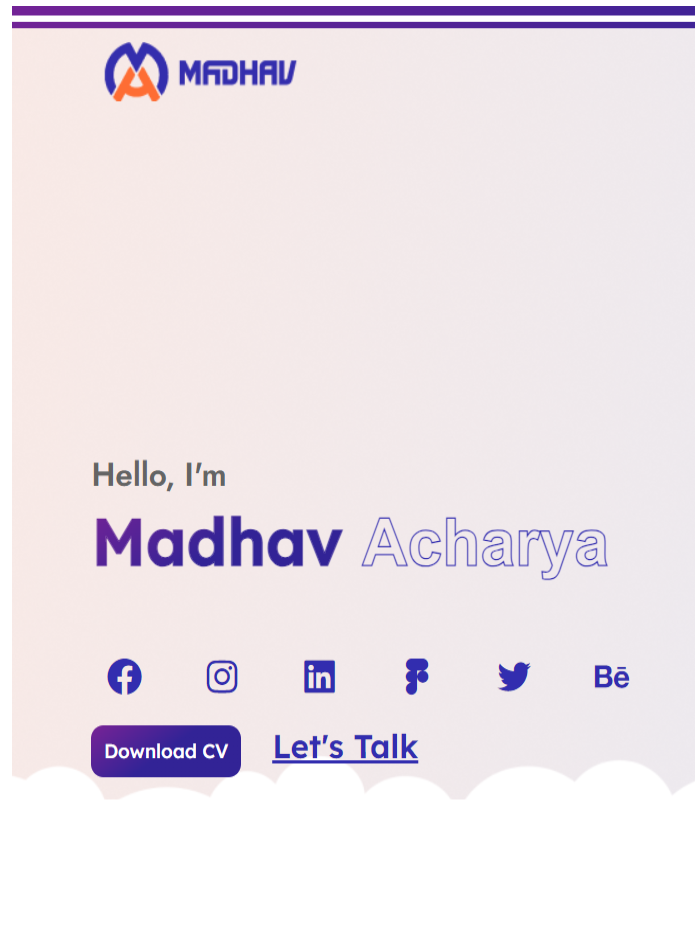
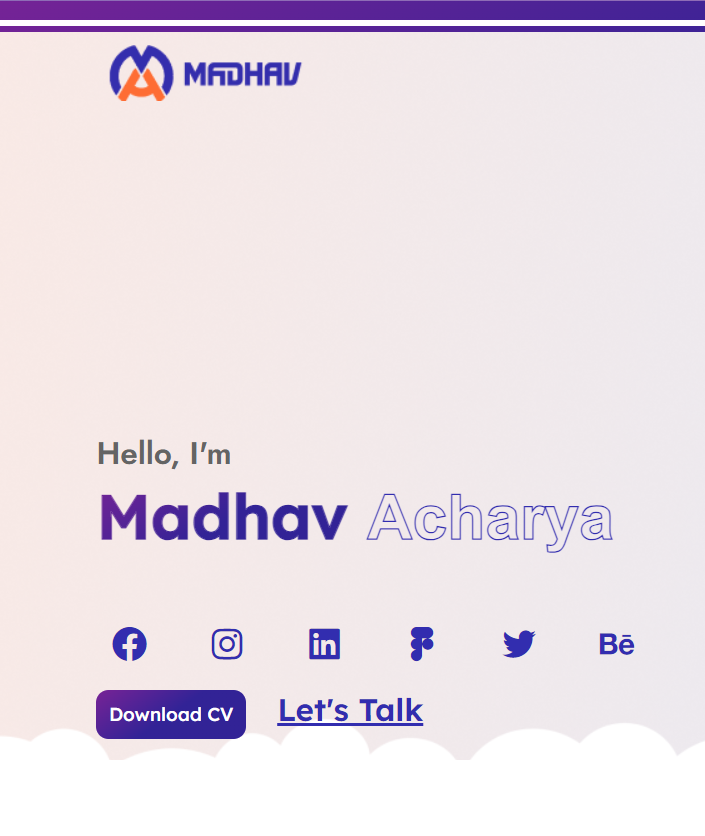
still not completed

diff --git a/index.html b/index.html
@@ -51,69 +51,59 @@ Poudel</span></h1>
 </ul>
 </div>
 <div class="heroBtn">
-  <button class="downloadCV"><a href="./portfolio.pdf" class="specialFont">Download CV</a></button>
   <a href="#contact" class="specialFont">Let's Talk</a>
 </div>
-    </div>
-    <div class="heroImg">
-    <div class="heroImgContainer">
-      <img src="images/profile.png" alt="">
-      <div class="rotate-text">
-          <div class="text">
-              <p>lllllllllllllllllllllllllllllllllllllllllllllllllllllllll</p>
-          </div>
-          <span><i></i></span>
-      </div>
-  </div>
-  </div>
-  </section>
-  
-  <section class="about" id="about">
-  <fieldset class="about-Box1" data-aos="fade-right" >
+</div>
+<div class="heroImg">
+</div>
+</section>
+
+<section class="about" id="about">
+  <fieldset class="about-Box1" data-aos="fade-up" >
     <legend class="primaryColor specialFont">Prasan Poudel</legend>
     <ul>
       <li>
         <i class='bx bxs-briefcase'></i>
-        React JS developer, Web developer
+        : React JS developer, Web developer
       </li>
       <li>
         <i class='bx bxl-gmail'></i>
-        prasanpoudel501 @gmail.com
+        : prasanpoudel501 @gmail.com
       </li>
       <li>
         <i class='bx bxs-location-plus'></i>
-        Buddhabhumi-9,Kapilvastu <img src="./images/NepalFlag.png" alt="" class="NepalFlag">
+        : Buddhabhumi-9,Kapilvastu <img src="./images/NepalFlag.png" alt="" class="NepalFlag">
       </li>
       <li>
         <i class='bx bxs-phone'></i>
-        +977-9841098***
+        : +977-9841098***
       </li>
       <li>
         <i class='bx bxs-graduation'></i>
-        B.Sc. CSIT, Butwal Multiple Campus
+        :B.Sc. CSIT, Butwal Multiple Campus
       </li>
     </ul>
   </fieldset>
-<div class="about-Box2" data-aos="fade-left" >
-  <p class="headingText">
-    Why you should <span class="transparentText specialFont">hire me</span> for your <span class="primaryColor specialFont">next </span><span class="primaryColor specialFont">project </span>?
-  </p>
-<p class="explanation">
-  I'm a highly skilled web developer and also a computer science student with a passion for creating amazing and engaging web applications. I am currently studying bachelor in computer science and information technology from Tribhuvan University of Nepal. I am highly skilled in working with technologies like HTML, CSS, Tailwind, SASS, JavaScript along with React Js and also tools like git & github.
-</p>
-<p class="explanation"> I am always looking for new challenges and opportunities to expand my skill set. I am passionate about creating innovative and effective web solutions that make a fulfillment in my client's demand.
-</p>
-<button class="hireBtn "><a href="mailto:prasanpoudel501@gmail.com" class="specialFont">Hire Me</a></button>
-</div>
-  </section>
-  <section class="mySkills">
-    <div class="mySkillsTitle">
-      <p class="specialFont">My skills:</p>
-    </div>
-    <div class="skills" data-aos="fade-down" >
-      <ul>
-        <li><i class='bx bxl-html5'></i>HTML</li>
-        <li><i class='bx bxl-css3'></i>CSS</li>
+  <div class="about-Box2" data-aos="fade-up" >
+    <p class="headingText">
+      Why you should <span class="transparentText specialFont">hire me</span> for your <span class="primaryColor specialFont">next </span><span class="primaryColor specialFont">project </span>?
+    </p>
+    <p class="explanation">
+      I'm a highly skilled web developer and also a computer science student with a passion for creating amazing and engaging web applications. I am currently studying bachelor in computer science and information technology from Tribhuvan University of Nepal. I am highly skilled in working with technologies like HTML, CSS, Tailwind, SASS, JavaScript along with React Js and also tools like git & github.
+    </p>
+    <p class="explanation"> I am always looking for new challenges and opportunities to expand my skill set. I am passionate about creating innovative and effective web solutions that make a fulfillment in my client's demand.
+    </p>
+    <button class="downloadCV"><a href="./portfolio.pdf" class="specialFont">Download CV</a></button>
+  </div>
+</section>
+<section class="mySkills">
+  <div class="mySkillsTitle">
+    <p class="specialFont">My skills:</p>
+  </div>
+  <div class="skills" data-aos="fade-down" >
+    <ul>
+      <li><i class='bx bxl-html5'></i>HTML</li>
+      <li><i class='bx bxl-css3'></i>CSS</li>
         <li><i class='bx bxl-sass' ></i>SASS</li>
         <li><i class='bx bxl-tailwind-css' ></i>Tailwind</li>
         <li><i class='bx bxl-javascript' ></i>JavaScript</li>
@@ -127,7 +117,7 @@ Poudel</span></h1>
   Projects:
 </div>
 <div class="allProjects">
-<div class="projects-Box1" data-aos="fade-right">
+<div class="projects-Box1" data-aos="fade-up">
   <div class="allProjectsHeading">
   <p class="headingText">My <span class="primaryColor specialfont">latest</span></p><p class="headingText">awesome <span class="transparentText specialFont">projects</span></p>
   </div>
@@ -140,13 +130,13 @@ Poudel</span></h1>
     </div>
   </div>
 </div>
-<div class="projects-Box2" data-aos="fade-left">
+<div class="projects-Box2" data-aos="fade-up">
   <div class="project">
     <img src="./allProjectsImage/todoListAppImg.png" alt="">
     <div class="overlay">
       <p>Functional Todo List App</p>
-      <p><a href="https://prasanpoudel.github.io/allProjects/TodoApp/">Live Demo</a><i class='bx bxs-right-arrow'></i></p>
-      <p><a href="https://github.com/PrasanPoudel/allProjects/tree/main/TodoApp">Source Code</a><i class='bx bxs-right-arrow'></i></p>
+      <p><a href="https://prasanpoudel.github.io/TodoApp/">Live Demo</a><i class='bx bxs-right-arrow'></i></p>
+      <p><a href="https://github.com/PrasanPoudel/TodoApp/tree/main/TodoApp/">Source Code</a><i class='bx bxs-right-arrow'></i></p>
     </div>
   </div>
   <div class="allProjectsLink">

diff --git a/style.css b/style.css
@@ -77,6 +77,8 @@ header{
   font-size: 2rem;
   position: relative;
   cursor: pointer;
+  border-left: 1px solid var(--useful-text);
+  padding-left: 20px;
 }
 .navLinks a::before{
   content: "";
@@ -129,6 +131,7 @@ header{
     .navLinks ul li a{
       color: #fff;
       font-size: 3.3rem;
+      border-left: none;
     }
     .menu_active{
       display: flex;
@@ -185,114 +188,16 @@ height: 90vh;
   text-decoration: underline;
   font-size: 2.5rem;
 }
-.downloadCV{
-  background: var(--primaryColor);
-  border: none;
-  border-radius:25px;
-  text-align: center;
-  padding: 10px;
-  text-align: center;
-  width: 200px;
-}
-.downloadCV a{
-  font-size: 2.5rem;
-  color: #fff;
-  text-decoration: none;
-}
+
 .heroImg{
-  display: flex;
+  background-image: url(./images/model.png);
+  background-position: center;
+  background-size: cover;
+  background-repeat: no-repeat;
   height: 100%;
   width: 100%;
-  justify-content: center;
+  filter: grayscale(100%);
 }
-.heroImgContainer{
-  position: relative;
-  animation: floatImage 3s ease-in-out infinite;
-  display: flex;
-  justify-content: center;
-  align-items: center;
-}
-
-.heroImgContainer img{
-  position: relative;
-  width: 400px;
-  height: auto;
-  z-index: 15 !important;
- border-radius: 50%;
- bottom: 10px;
-}
-
-.rotate-text{
-  position: absolute;
-  display: flex;
-  justify-content: center;
-  align-items: center;
-  padding: 2rem;
-}
-.rotate-text span{
-  position: relative;
-  width: 442px;
-  height: 442px;
-  background: linear-gradient(180deg, var(--background-color) 10%, var(--primaryColor) 99%);
-  border: 10px solid var(--useful-text);
-  border-radius: 50%;
-  z-index: 1;
-  overflow: hidden;
-}
-.rotate-text span i{
-  position: absolute;
-  animation: animate 2s linear infinite;
-}
-
-
-.rotate-text .text{
-  position: absolute;
-  width: 490px;
-  height: 490px;
-  background: var(--primaryColor);
-  border-radius: 50%;
-  animation: rotateText 10s linear infinite;
-  border: 5px dashed #fff;
-}
-
-.text b{
-  position: absolute;
-  transform-origin: 0 245px;
-  display: block;
-  top: 0;
-  left: 50%;
-  font-size: 2rem;
-  color: #fff;
-}
-@keyframes animate{
-  0%{
-      transform: rotate(0deg);
-  }
-  100%{
-      transform: rotate(360deg);
-  }
-}
-
-@keyframes rotateText{
-  0%{
-      transform: rotate(0deg);
-  }
-  100%{
-      transform: rotate(360deg);
-  }
-}
-@keyframes floatImage{
-  0%{
-      transform: translateY(0);
-  }
-  50%{
-      transform: translateY(-45px);
-  }
-  100%{
-      transform: translateY(0);
-  }
-}
-
 @media screen and (max-width:1200px){
   .hero{
   display: flex;
@@ -302,22 +207,9 @@ height: 90vh;
   gap: 50px;
   height: auto;
 }
-.heroImgContainer{
-  display: flex;
-  align-items: center;
-  justify-content: center;
-  height: auto;
-}
-.heroImgContainer img{
-  width: 90%;
-  bottom: 0;
-}
-.rotate-text{
-  display: none;
-}
-.heroImgContainer img{
-  background: linear-gradient(180deg, var(--background-color) 10%, var(--primaryColor) 90%);
-  border: 5px solid var(--useful-text);
+.heroImg{
+  height: 500px;
+  width: 100%;
 }
 }
 
@@ -382,21 +274,21 @@ height: 90vh;
   margin-top: 25px;
   text-align-last: left;
 }
-.hireBtn{
+.downloadCV{
   background: var(--primaryColor);
-  border: 2.5px solid var(--useful-text);
-  padding: 10px;
+  border: none;
   border-radius:25px;
-  margin-top: 25px;
-  width: 150px;
-  cursor: pointer;
   text-align: center;
+  padding: 10px;
+  text-align: center;
+  width: 200px;
+  margin-top: 25px;
 }
-.hireBtn a{
-  color: #fff;
+.downloadCV a{
   font-size: 2.5rem;
+  color: #fff;
+  text-decoration: none;
 }
-
 @media screen and (max-width:1200px) {
   .about{
    grid-template-columns: 1fr;

diff --git a/allProjects.html b/allProjects.html
@@ -113,13 +113,13 @@ const projects=[
     img: "./allProjectsImage/clientPortfolioImg.png",
     title: "Client's Portfolio",
     demo: "https://prasanpoudel.github.io/client-s-Portfolio/",
-    code: "https://github.com/PrasanPoudel/client-s-Portfolio/blob/main/index.html"
+    code: "https://github.com/PrasanPoudel/client-s-Portfolio/",
   },
   {
     img: "./allProjectsImage/todoListAppImg.png",
     title: "Functional Todo List App",
-    demo: "https://prasanpoudel.github.io/allProjects/TodoApp/",
-    code: "https://github.com/PrasanPoudel/allProjects/tree/main/TodoApp"
+    demo: "https://prasanpoudel.github.io/TodoApp/",
+    code: "https://github.com/PrasanPoudel/TodoApp/tree/main/TodoApp/"
   },
   {
     img: "./allProjectsImage/WeatherAppImg.png",
